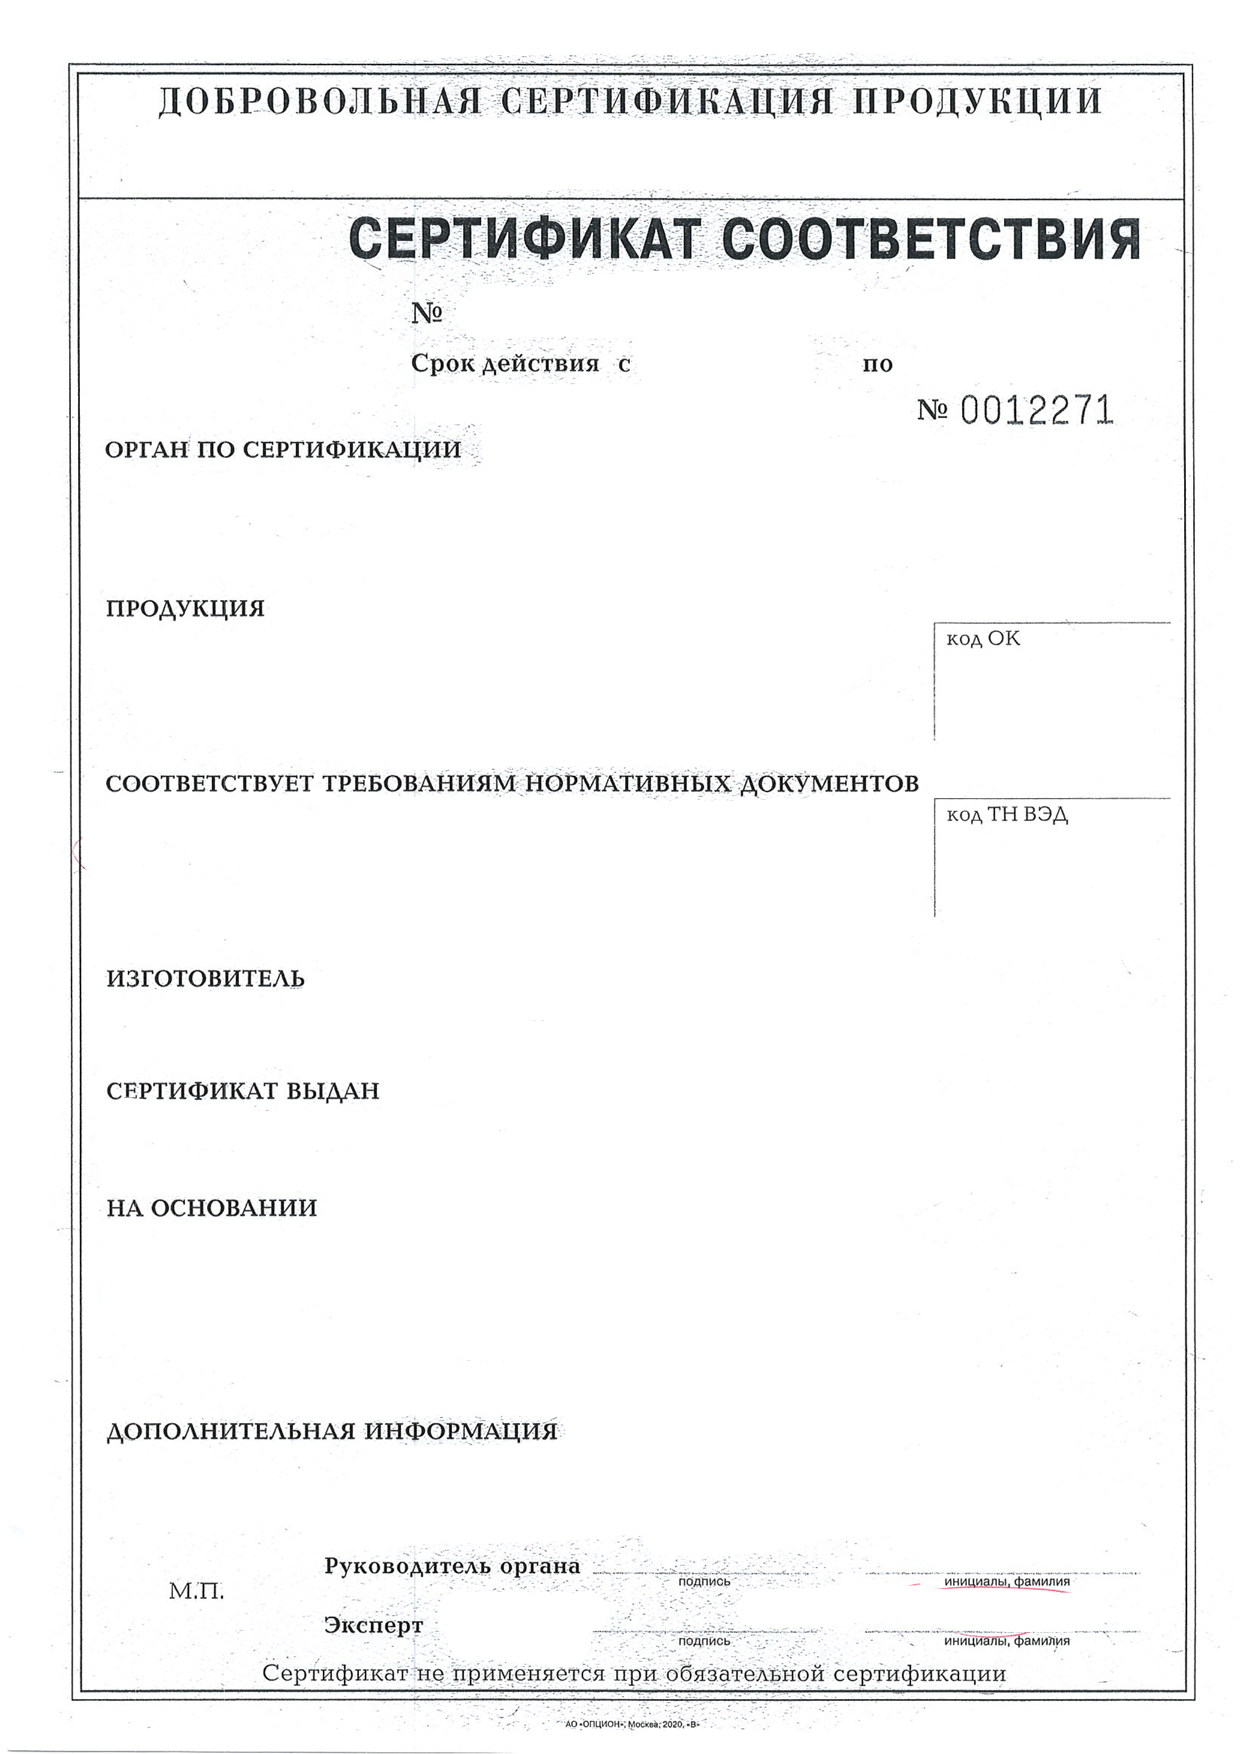
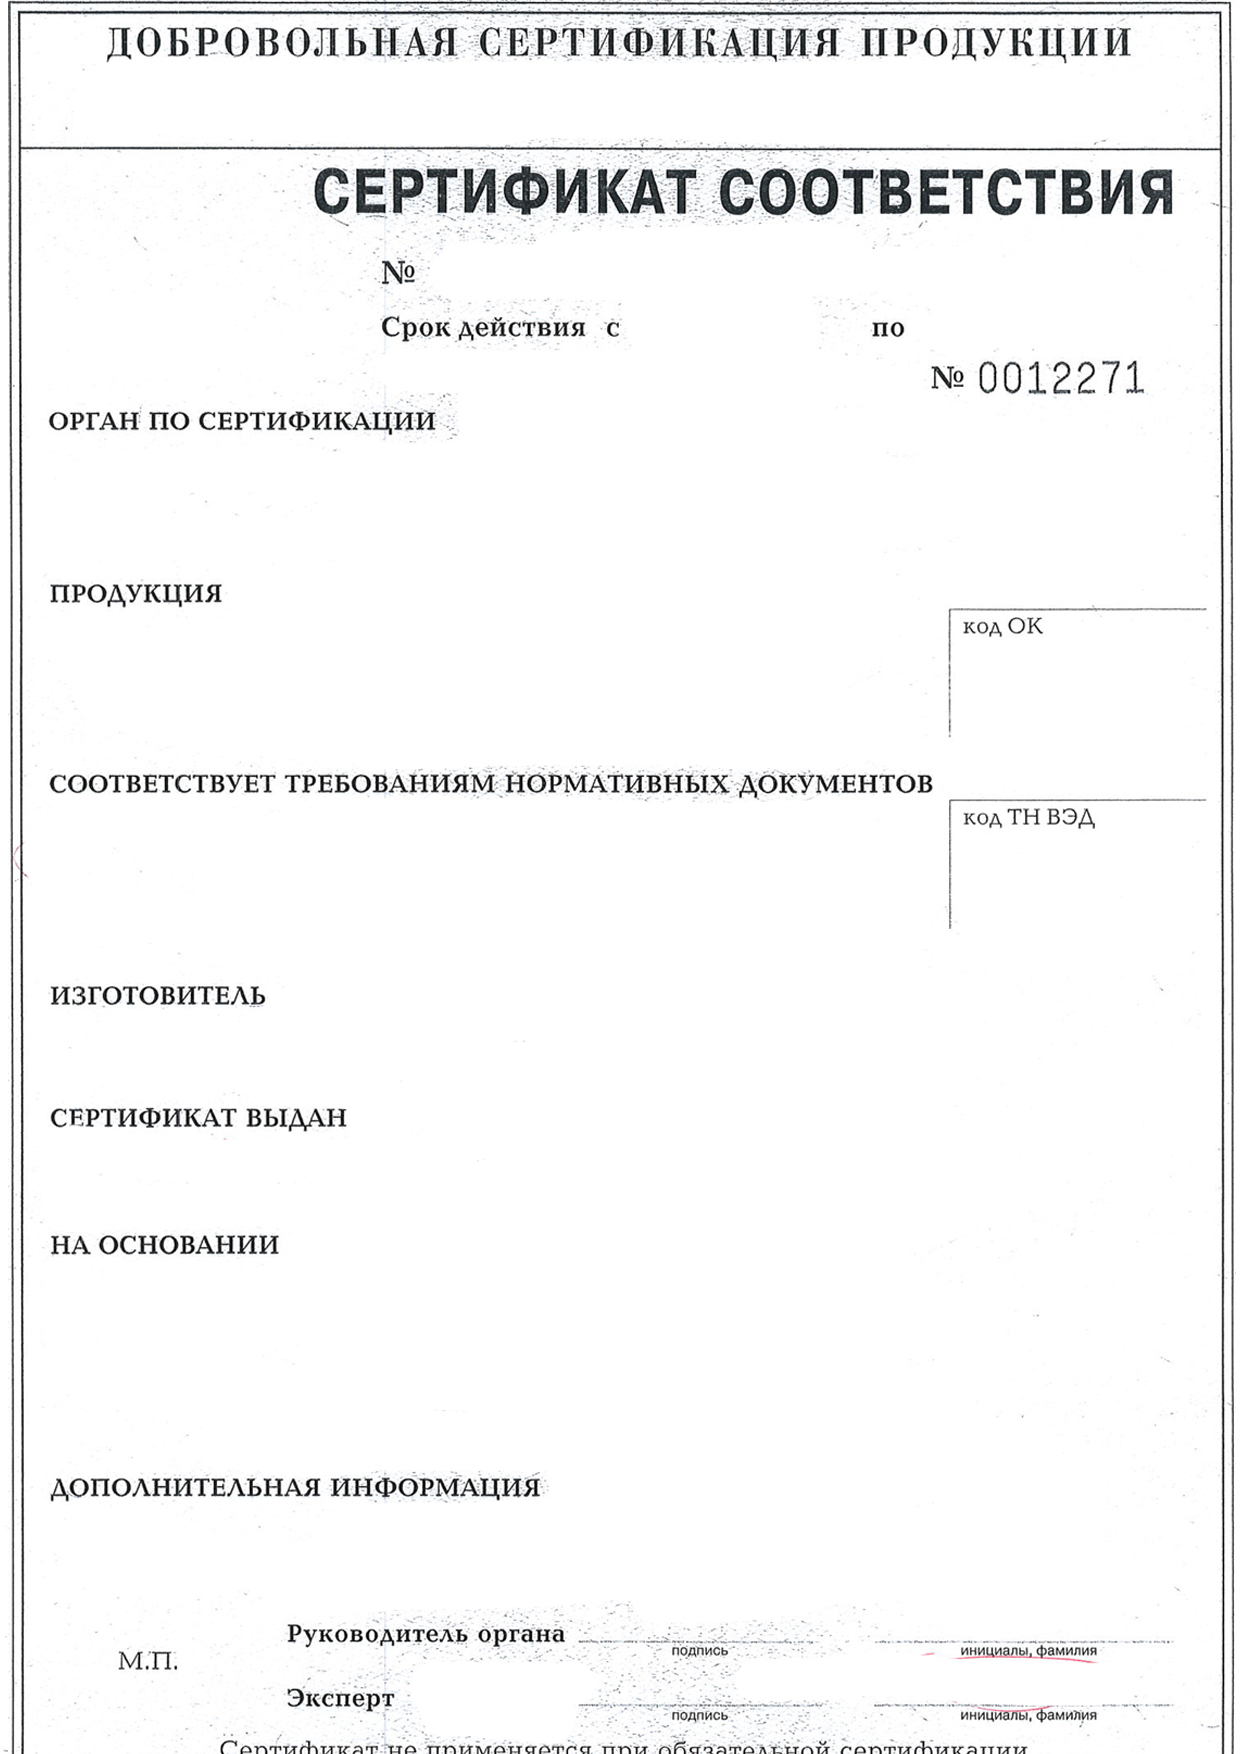
Adjust form styles

diff --git a/src/scss/modules/_cert-form.scss b/src/scss/modules/_cert-form.scss
@@ -17,6 +17,7 @@
 .cert-form__header {
   // box model
   padding: 0.2rem 2rem;
+  padding-right: 5rem;
   padding-bottom: 1rem;
 
   // border
@@ -31,6 +32,7 @@
 .cert-form__main {
   // box model
   padding: 2rem 1.75rem;
+  padding-right: 5rem;
 
   // border
   border: 2px solid $black;
@@ -60,8 +62,8 @@
 
 .cert-form__top-fields {
   // box model
-  padding-top: 3.75rem;
-  padding-left: 20rem;
+  padding-top: 5rem;
+  padding-left: 23rem;
 }
 
 .cert-form__number {
@@ -74,7 +76,7 @@
   position: relative;
 
   // box model
-  padding-top: 3rem;
+  padding-top: 4rem;
 }
 
 .cert-form__input {
@@ -82,7 +84,7 @@
   display: block;
 
   // typography
-  font-size: 1.2rem;
+  font-size: 1.4rem;
 
   &--title {
     // box model
@@ -99,6 +101,13 @@
     // box model
     display: inline-block;
     width: 120px;
+    margin-right: 15px;
+  }
+
+  &--number {
+    // box model
+    display: inline-block;
+    width: 240px;
   }
 
   &--sign {
@@ -108,6 +117,14 @@
 
     // typography
     font-size: 1.25rem;
+  }
+
+  &--deputy {
+    // box model
+    width: 200px;
+
+    // typography
+    text-decoration: underline;
   }
 
   @media print {
@@ -134,7 +151,8 @@
   
     // typography
     font-weight: 700;
-    letter-spacing: 0.05em;
+    font-size: 1.5rem;
+    letter-spacing: 0.1em;
     text-transform: uppercase;
   }
 
@@ -150,7 +168,7 @@
   width: 100%;
 
   // typography
-  font-size: 1.3rem;
+  font-size: 1.4rem;
   line-height: 1.25;
 
   // visual
@@ -161,7 +179,7 @@
     margin-top: -2rem;
 
     // typography
-    text-indent: 11rem;
+    text-indent: 12rem;
   }
 
   &--producer {
@@ -169,7 +187,7 @@
     margin-top: -2rem;
 
     // typography
-    text-indent: 14rem;
+    text-indent: 15rem;
   }
 
   &--given {
@@ -177,7 +195,7 @@
     margin-top: -2rem;
 
     // typography
-    text-indent: 18rem;
+    text-indent: 20rem;
   }
 
   &--reason {
@@ -185,15 +203,16 @@
     margin-top: -2rem;
 
     // typography
-    text-indent: 14rem;
+    text-indent: 16rem;
   }
 
   &--additional {
     // box model
     margin-top: -2rem;
+    margin-bottom: 1rem;
 
     // typography
-    text-indent: 29rem;
+    text-indent: 32rem;
   }
 
   @media print {
@@ -214,31 +233,30 @@
   &--product {
     // box model
     margin-bottom: 1rem;
-    margin-right: 14rem;
+    margin-right: 16rem;
     padding-right: 2rem;
   }
 
   &--norms {
     // box model
     margin-top: -0.5rem;
-    margin-right: 14rem;
-    margin-bottom: 0.5rem;
+    margin-right: 16rem;
     padding-right: 2rem;
   }
 
   &--producer {
     // box model
-    margin-bottom: 0.5rem;
+    // margin-bottom: 0.5rem;
   }
 
   &--given {
     // box model
-    margin-bottom: 0.25rem;
+    // margin-bottom: 0.25rem;
   }
 
   &--reason {
     // box model
-    margin-bottom: 1rem;
+    margin-bottom: 1.5rem;
   }
 }
 
@@ -248,16 +266,23 @@
   right: -10px;
 
   // box model
-  width: 140px;
+  width: 150px;
 
   &--ok {
     // positioning
-    top: 150px;
+    top: 170px;
   }
 
   &--ved {
     // positioning
-    top: 270px;
+    top: 290px;
+  }
+
+  &--deputy {
+    // positioning
+    bottom: -65px;
+    right: auto;
+    left: 150px;
   }
 }
 
@@ -269,7 +294,7 @@
 
 .cert-form__sign {
   // box model
-  margin-bottom: 1.25rem;
+  margin-bottom: 2rem;
 
   // typography
   text-align: right;

diff --git a/src/scss/base/_global.scss b/src/scss/base/_global.scss
@@ -25,7 +25,7 @@ body {
   // visual
   background-image: url('../assets/img/cert-form.jpg') !important;
   background-size: contain !important;
-  // background-image: none !important;
+  background-image: none !important;
 }
 
 // @page {
